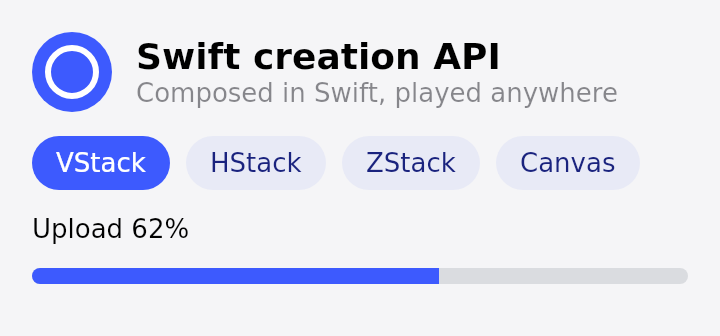
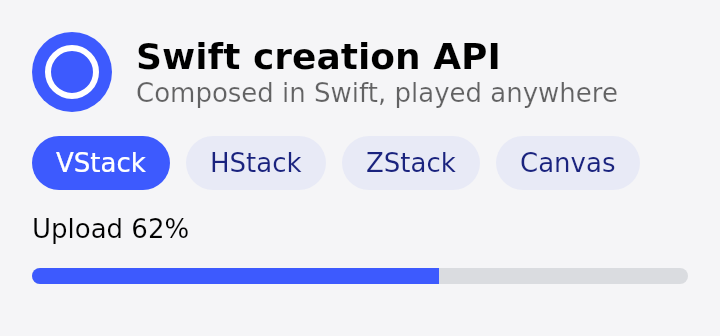
feat(swift): hierarchical .secondary foreground style (#995)

Changed region(s): [[0.55, 0.2381, 0.8556, 0.3274], [0.2139, 0.2381, 0.5194, 0.3274], [0.1833, 0.2381, 0.2139, 0.2679]]

diff --git a/Sources/RcCreation/RemoteColor.swift b/Sources/RcCreation/RemoteColor.swift
@@ -72,6 +72,11 @@ public struct RemoteColor: Hashable, Sendable {
     case fixed(RemoteColorValue)
     case adaptive(light: RemoteColorValue, dark: RemoteColorValue)
     case variable(RemoteVariable<RemoteColorValue>)
+    /// A variable's colour with its opacity multiplied by a factor, which the player applies.
+    case variableWithOpacity(RemoteVariable<RemoteColorValue>, Double)
+    /// The foreground style, its opacity multiplied by a factor: a hierarchical style, resolved
+    /// against the foreground the view is drawn under.
+    case hierarchical(Double)
   }
 
   let storage: Storage
@@ -110,8 +115,36 @@ public struct RemoteColor: Hashable, Sendable {
     case .fixed(let value): RemoteColor(value.opacity(opacity))
     case .adaptive(let light, let dark):
       .adaptive(light: light.opacity(opacity), dark: dark.opacity(opacity))
-    case .variable: nil
+    case .variable, .variableWithOpacity, .hierarchical: nil
     }
+  }
+
+  /// This colour with its opacity multiplied by `factor`, as a hierarchical style dims the
+  /// foreground: a variable's on the player, as its value is only known there.
+  func multiplyingOpacity(_ factor: Double) -> RemoteColor {
+    switch storage {
+    case .fixed(let value): RemoteColor(value.opacity(value.opacity * factor))
+    case .adaptive(let light, let dark):
+      .adaptive(
+        light: light.opacity(light.opacity * factor), dark: dark.opacity(dark.opacity * factor))
+    case .variable(let variable): RemoteColor(storage: .variableWithOpacity(variable, factor))
+    case .variableWithOpacity(let variable, let opacity):
+      RemoteColor(storage: .variableWithOpacity(variable, opacity * factor))
+    case .hierarchical(let opacity): RemoteColor(storage: .hierarchical(opacity * factor))
+    }
+  }
+
+  /// This colour drawn under `foreground`: a hierarchical style becomes the foreground at its
+  /// opacity; any other colour is itself. A hierarchical foreground is taken from the label colour.
+  func resolved(against foreground: RemoteColor) -> RemoteColor {
+    guard case .hierarchical(let opacity) = storage else { return self }
+    let base: RemoteColor =
+      if case .hierarchical = foreground.storage {
+        foreground.resolved(against: .label)
+      } else {
+        foreground
+      }
+    return base.multiplyingOpacity(opacity)
   }
 
   public static let black = RemoteColor(.black)
@@ -127,12 +160,21 @@ public struct RemoteColor: Hashable, Sendable {
   public static let blue = adaptive(light: .hex(0x007AFF), dark: .hex(0x0A84FF))
   public static let purple = adaptive(light: .hex(0xAF52DE), dark: .hex(0xBF5AF2))
 
-  /// Text and symbols: black in a light appearance, white in a dark one (`UIColor.label`).
-  public static let primary = adaptive(light: .black, dark: .white)
+  /// The foreground before any is set: black in a light appearance, white in a dark one.
+  static let label = adaptive(light: .black, dark: .white)
 
-  /// Secondary text (`UIColor.secondaryLabel`).
-  public static let secondary = adaptive(
-    light: .hex(0x3C3C43, opacity: 0.6), dark: .hex(0xEBEBF5, opacity: 0.6))
+  // The hierarchical styles, as SwiftUI's `HierarchicalShapeStyle`: the foreground the view is
+  // drawn under, dimmed by level at Apple's label opacities. `.foregroundStyle(.secondary)` inside
+  // `.foregroundStyle(.red)` is red at 60%; inside an accessory widget's white, white at 60%.
+
+  /// The foreground style itself.
+  public static let primary = RemoteColor(storage: .hierarchical(1))
+  /// The foreground at 60%: secondary text and symbols.
+  public static let secondary = RemoteColor(storage: .hierarchical(0.6))
+  /// The foreground at 30%.
+  public static let tertiary = RemoteColor(storage: .hierarchical(0.3))
+  /// The foreground at 18%.
+  public static let quaternary = RemoteColor(storage: .hierarchical(0.18))
 }
 
 extension RemoteColor: RemoteView, RemotePrimitive {

diff --git a/Tests/RcCreationTests/RemoteHierarchicalStyleTests.swift b/Tests/RcCreationTests/RemoteHierarchicalStyleTests.swift
@@ -1,0 +1,80 @@
+import Foundation
+@_spi(RemoteComposeController) import RcNativePlayerCore
+import RcWireOperations
+import Testing
+
+@testable import RcCreation
+
+/// `.secondary` and the other hierarchical styles are the foreground they are drawn under, dimmed,
+/// as SwiftUI's are, read back through the native player.
+@Suite struct RemoteHierarchicalStyleTests {
+  private func open(_ document: RemoteDocument) throws -> NativeSwiftDocumentSession {
+    try NativeSwiftDocumentSession.open(data: document.encodedData())
+  }
+
+  private func flatten(_ node: NativeSwiftNodeSnapshot) -> [NativeSwiftNodeSnapshot] {
+    [node] + node.children.flatMap(flatten)
+  }
+
+  /// The colour of each text, in order.
+  private func textColors(_ session: NativeSwiftDocumentSession) throws -> [UInt32] {
+    try flatten(session.snapshot().root).compactMap(\.text?.colorARGB)
+  }
+
+  @Test func secondaryIsTheForegroundDimmed() throws {
+    let document = RemoteDocument(width: 200, height: 200) {
+      RemoteVStack {
+        RemoteText("primary")
+        RemoteText("secondary").foregroundStyle(.secondary)
+        RemoteVStack {
+          RemoteText("red")
+          RemoteText("red secondary").foregroundStyle(.secondary)
+          RemoteText("red tertiary").foregroundStyle(.tertiary)
+        }
+        .foregroundStyle(.hex(0xFF0000))
+        // Nested: the secondary of the secondary.
+        RemoteText("nested").foregroundStyle(.secondary).foregroundStyle(.secondary)
+      }
+    }
+    // 60% of 255 is 153 (0x99), 30% is 77 (0x4D), 36% is 92 (0x5C). The default foreground is
+    // black in the light appearance the session opens in.
+    #expect(
+      try textColors(open(document)) == [
+        0xFF00_0000, 0x9900_0000, 0xFFFF_0000, 0x99FF_0000, 0x4DFF_0000, 0x5C00_0000,
+      ])
+  }
+
+  /// However the foreground is set, a hierarchical style resolves against the one it replaces.
+  @Test func theGenericEnvironmentSetterResolvesToo() throws {
+    let document = RemoteDocument(width: 100, height: 100) {
+      RemoteText("text").environment(\.foregroundStyle, .secondary).foregroundStyle(.hex(0xFF0000))
+    }
+    #expect(try textColors(open(document)) == [0x99FF_0000])
+  }
+
+  @Test func aBackgroundInTheSecondaryStyleTakesTheForeground() throws {
+    let document = RemoteDocument(width: 100, height: 100) {
+      RemoteColor.secondary.frame(width: 10, height: 10).foregroundStyle(.hex(0x0000FF))
+    }
+    #expect(
+      try flatten(open(document).snapshot().root).contains { $0.backgroundARGB == 0x9900_00FF })
+  }
+
+  /// A foreground the host writes is dimmed on the player, so `.secondary` follows it.
+  @Test func secondaryFollowsAVariableForeground() throws {
+    let accent = RemoteVariable("accent", default: RemoteColorValue.hex(0x00FF00))
+    let document = RemoteDocument(width: 100, height: 100) {
+      RemoteVStack {
+        RemoteText("accent")
+        RemoteText("dimmed").foregroundStyle(.secondary)
+      }
+      .foregroundStyle(.variable(accent))
+    }
+    let operations = try WireDocument.load(from: document.encode()).operations
+    #expect(operations.contains { $0.opCode == .colorExpression })
+    let session = try open(document)
+    #expect(try textColors(session) == [0xFF00_FF00, 0x9900_FF00])
+    #expect(session.setColor(0xFF12_3456, for: accent.name))
+    #expect(try textColors(session) == [0xFF12_3456, 0x9912_3456])
+  }
+}

diff --git a/Sources/RcCreation/RemoteWriter.swift b/Sources/RcCreation/RemoteWriter.swift
@@ -399,6 +399,41 @@ package final class RemoteWriter {
   /// `value` as a literal ARGB word, or the id of the colour the player resolves.
   func color(_ value: RemoteColor) throws(RemoteEncodingError) -> ResolvedColor {
     switch value.storage {
+    case .hierarchical:
+      // A hierarchical style used other than as the foreground (a background, a stroke) is the
+      // foreground the view is drawn under.
+      return try color(value.resolved(against: environment.foregroundStyle))
+    case .variableWithOpacity(let variable, let factor):
+      if let id = colorIDs[value.storage] { return .id(id) }
+      guard case .id(let source) = try color(RemoteColor(variable)) else {
+        preconditionFailure("a variable colour is an id")
+      }
+      // The variable's channels, and its alpha times `factor`, rebuilt as an ARGB colour whose
+      // alpha is a float id (`ColorExpression`'s ID-ARGB mode), as the value changes.
+      func channel(_ type: Int32) -> Int32 {
+        let id = newDataID()
+        declare(.colorAttribute(ColorAttribute(id: id, colorId: source, type: Int16(type))))
+        return id
+      }
+      let red = channel(ColorAttribute.colorRed)
+      let green = channel(ColorAttribute.colorGreen)
+      let blue = channel(ColorAttribute.colorBlue)
+      let alpha = try floatID(
+        (RemoteFloat(node: .declared(channel(ColorAttribute.colorAlpha)))
+          * RemoteFloat(factor)).node)
+      // The alpha's id is written in the mode word's upper 16 bits.
+      guard alpha <= Int32(UInt16.max) else {
+        throw RemoteEncodingError.integerOutOfRange(Int(alpha))
+      }
+      func word(_ id: Int32) -> Int32 { Int32(bitPattern: Self.reference(id).bitPattern) }
+      let id = newDataID()
+      declare(
+        .colorExpression(
+          ColorExpression(
+            id: id, flagsAndMode: ColorExpression.idargbMode | alpha << 16, arg1: word(red),
+            arg2: word(green), arg3: word(blue))))
+      colorIDs[value.storage] = id
+      return .id(id)
     case .fixed(let literal): return .literal(literal.argb)
     case .adaptive(let light, let dark):
       if let id = colorIDs[value.storage] { return .id(id) }
@@ -944,6 +979,9 @@ package final class RemoteWriter {
       channels: (red: Float, green: Float, blue: Float, alpha: Float)
     )
   {
+    // A hierarchical style is the foreground it is drawn under: resolved first, so a literal
+    // keeps its exact components.
+    let color = color.resolved(against: environment.foregroundStyle)
     switch try self.color(color) {
     case .literal:
       guard case .fixed(let value) = color.storage else { preconditionFailure() }

diff --git a/Tests/RcNativePlayerCoreTests/NativeSwiftFloatIntegerViewTests.swift b/Tests/RcNativePlayerCoreTests/NativeSwiftFloatIntegerViewTests.swift
@@ -377,6 +377,23 @@ import Testing
     return document.data
   }
 
+  /// An ID-ARGB alpha id of 0x8000 or more makes the signed mode word negative: the player reads
+  /// the id from its unsigned upper half rather than trapping on a sign-extended shift.
+  @Test func anIdArgbAlphaIdInTheUpperHalfOfItsRange() throws {
+    let alphaID = 0x8001
+    let document = Writer()
+    document.header(width: 100, height: 100)
+    document.u8(Op.dataFloat).int(alphaID).float(0.6)
+    let mode = Int(
+      Int32(
+        bitPattern: UInt32(alphaID) << 16 | UInt32(NativeSwiftColorExpressionMode.idARGB)))
+    #expect(mode < 0)
+    document.u8(Op.colorExpressions).int(65).int(mode).float(1).float(0).float(0)
+    let session = try NativeSwiftDocumentSession.open(
+      data: document.data, toleratingRootlessData: true)
+    #expect(try session.probeValues(timeSeconds: 0).colors[65] == 0x99FF_0000)
+  }
+
   @Test func documentColoursWithoutHostWrites() throws {
     let session = try NativeSwiftDocumentSession.open(
       data: Self.colorDocument(), toleratingRootlessData: true)

diff --git a/Sources/RcCreation/RemoteEnvironment.swift b/Sources/RcCreation/RemoteEnvironment.swift
@@ -36,14 +36,21 @@ private struct TintKey: RemoteEnvironmentKey {
 }
 
 private struct ForegroundStyleKey: RemoteEnvironmentKey {
-  static let defaultValue = RemoteColor.primary
+  static let defaultValue = RemoteColor.label
 }
 
 extension RemoteEnvironmentValues {
   /// The colour text and icons take unless they set their own, as SwiftUI's `foregroundStyle`.
+  ///
+  /// A hierarchical style set here is the foreground it replaces, dimmed: `.secondary` within
+  /// red is red at 60%, and within `.secondary`, the foreground at 36%. However it is set (the
+  /// `foregroundStyle` modifier, `environment(\.foregroundStyle, _)`, an environment reader), the
+  /// value read back is always a concrete colour.
   public var foregroundStyle: RemoteColor {
     get { self[ForegroundStyleKey.self] }
-    set { self[ForegroundStyleKey.self] = newValue }
+    set {
+      self[ForegroundStyleKey.self] = newValue.resolved(against: self[ForegroundStyleKey.self])
+    }
   }
 
   /// The accent colour controls take, as SwiftUI's `tint`.

diff --git a/Sources/RcNativePlayerCore/NativeSwiftParsedDocument.swift b/Sources/RcNativePlayerCore/NativeSwiftParsedDocument.swift
@@ -168,6 +168,11 @@ struct ParsedColorExpression {
   let second: Int
   let third: Int
 
+  /// The unsigned upper half of `modeAndAlpha`: the alpha byte, fixed-point alpha or alpha float id.
+  /// The word is signed on the wire, so an id of 0x8000 or more makes it negative; masking keeps
+  /// that id rather than a sign-extended negative value.
+  var alphaField: UInt32 { UInt32(truncatingIfNeeded: modeAndAlpha >> 16) & 0xffff }
+
   /// The float words this expression reads, which depend on its mode.
   ///
   /// Modes 0...3 blend two **colours**: their first two fields are literal ARGB or colour ids, not
@@ -187,7 +192,7 @@ struct ParsedColorExpression {
     case NativeSwiftColorExpressionMode.idARGB:
       return [
         word(first), word(second), word(third),
-        0x7fc0_0000 | (UInt32(truncatingIfNeeded: modeAndAlpha >> 16) & 0xffff),
+        0x7fc0_0000 | alphaField,
       ]
     default:
       return []

diff --git a/Sources/RcNativePlayerCore/NativeSwiftDocumentSession.swift b/Sources/RcNativePlayerCore/NativeSwiftDocumentSession.swift
@@ -2189,13 +2189,13 @@ public final class NativeSwiftDocumentSession: @unchecked Sendable {
       case NativeSwiftColorExpressionMode.hsv...NativeSwiftColorExpressionMode.idARGB:
         let alpha: Float
         if mode == NativeSwiftColorExpressionMode.hsv {
-          alpha = Float(expression.modeAndAlpha >> 16) / 255
+          alpha = Float(expression.alphaField) / 255
         } else if mode == NativeSwiftColorExpressionMode.argb {
-          alpha = Float(expression.modeAndAlpha >> 16) / 1024
+          alpha = Float(expression.alphaField) / 1024
         }
         else {
           alpha = NativeSwiftFloatExpression.resolve(
-            0x7fc0_0000 | UInt32(expression.modeAndAlpha >> 16), values: values)
+            0x7fc0_0000 | expression.alphaField, values: values)
         }
         let first = NativeSwiftFloatExpression.resolve(
           UInt32(bitPattern: Int32(expression.first)), values: values)

diff --git a/docs/design/RC_SWIFT_CREATION.md b/docs/design/RC_SWIFT_CREATION.md
@@ -108,7 +108,7 @@ name.
 | Environment | `RemoteEnvironmentKey`, `RemoteEnvironmentValues`, `environment(_:_:)`, `RemoteEnvironmentReader`, `tint` | nothing: read while writing |
 | Images and paths | `RemoteImage` (a view), `RemotePath` (SVG path data) that a canvas fills or strokes | `BitmapData`, `PathData`, draw ops |
 | Drawing | `RemoteCanvas { context, size in … }` with `fill` and `stroke` of rects, rounded rects, ellipses, circles and lines | `CanvasLayout`, `CanvasContent`, `ComponentValue`, `PaintData`, draw ops |
-| Colour | `RemoteColorValue` (literal), `RemoteColor.fixed`, `.adaptive(light:dark:)`, `.variable`; a colour is also a view | `ColorTheme`, `ColorConstant`, `NamedVariable` |
+| Colour | `RemoteColorValue` (literal), `RemoteColor.fixed`, `.adaptive(light:dark:)`, `.variable`; the hierarchical `.primary`, `.secondary`, `.tertiary`, `.quaternary`; a colour is also a view | `ColorTheme`, `ColorConstant`, `NamedVariable`; for a variable foreground dimmed, `ColorAttribute` and `ColorExpression` |
 | Modifiers | `frame`, `flexWeight`, `padding`, `offset`, `zIndex`, `background`, `clipShape`, `border`, `visibility`, `hidden`, `visible(if:)`, `onTapGesture`; `RemoteButton`; your own with `RemoteViewModifier` and `modifier(_:)` | the matching modifier ops; a rounded `background` as `DrawContentOperation` + `CanvasOperations` |
 | Accessibility | `accessibilityLabel`, `accessibilityValue`, `accessibilityRole`, `accessibilityElement(children:)` | one `CoreSemantics` per view |
 | State | `RemoteVariable<Double / Int / Bool / String / RemoteColorValue / RemoteVisibility / some RemoteStateValue>` | `FloatConstant`, `IntegerConstant`, `TextData`, `ColorConstant`, `NamedVariable` |
@@ -172,6 +172,17 @@ name.
   `LayoutContent` and two `ContainerEnd`s; a canvas adds `CanvasContent`, and binds its size to its
   `LayoutContent`, as AndroidX binds a component's size. `TextLayout` is used rather than
   `CoreText` because every player profile reads it.
+- **`.secondary` is hierarchical.** As SwiftUI's, `.primary`, `.secondary`, `.tertiary` and
+  `.quaternary` are the foreground a view is drawn under at 100%, 60%, 30% and 18% (Apple's
+  label opacities), so secondary text under a red foreground is red at 60%, and under an
+  accessory widget's white, white at 60%. `.foregroundStyle(.secondary)` resolves against the
+  foreground it is set inside, so nesting compounds; a hierarchical colour used elsewhere (a
+  background) takes the foreground in the environment. A literal or light/dark foreground is
+  dimmed as the document is written; a variable one on the player, its channels read with
+  `ColorAttribute` and rebuilt with the alpha scaled (`ColorExpression`'s ID-ARGB mode).
+
+  ![Hierarchical styles](../../renders/swift-creation/hierarchical-cmp-jvm.png)
+
 - **A float is also an integer.** As AndroidX's `setFloat` publishes, every float has an integer
   view, truncated toward zero, and an integer reader (an `IntegerExpression`, a `StateLayout`
   index) names the float's id to read it. `RemoteInt(.weekday)`, `RemoteInt(truncating:)` and the

diff --git a/docs/design/RC_SWIFT_APPLE_UI.md b/docs/design/RC_SWIFT_APPLE_UI.md
@@ -82,7 +82,4 @@ Rendered by the CMP player from [`renders/swift-creation/apple/`](../../renders/
 
 ## Not yet
 
-- `.secondary` is the light/dark label grey, not SwiftUI's hierarchical style relative to the
-  current foreground. On a dark accessory widget, `.secondaryLabel` is too dark to read, so use
-  a translucent white there, as the demo does.
 - Symbols beyond the built-in set, lists that scroll, and text fields.
